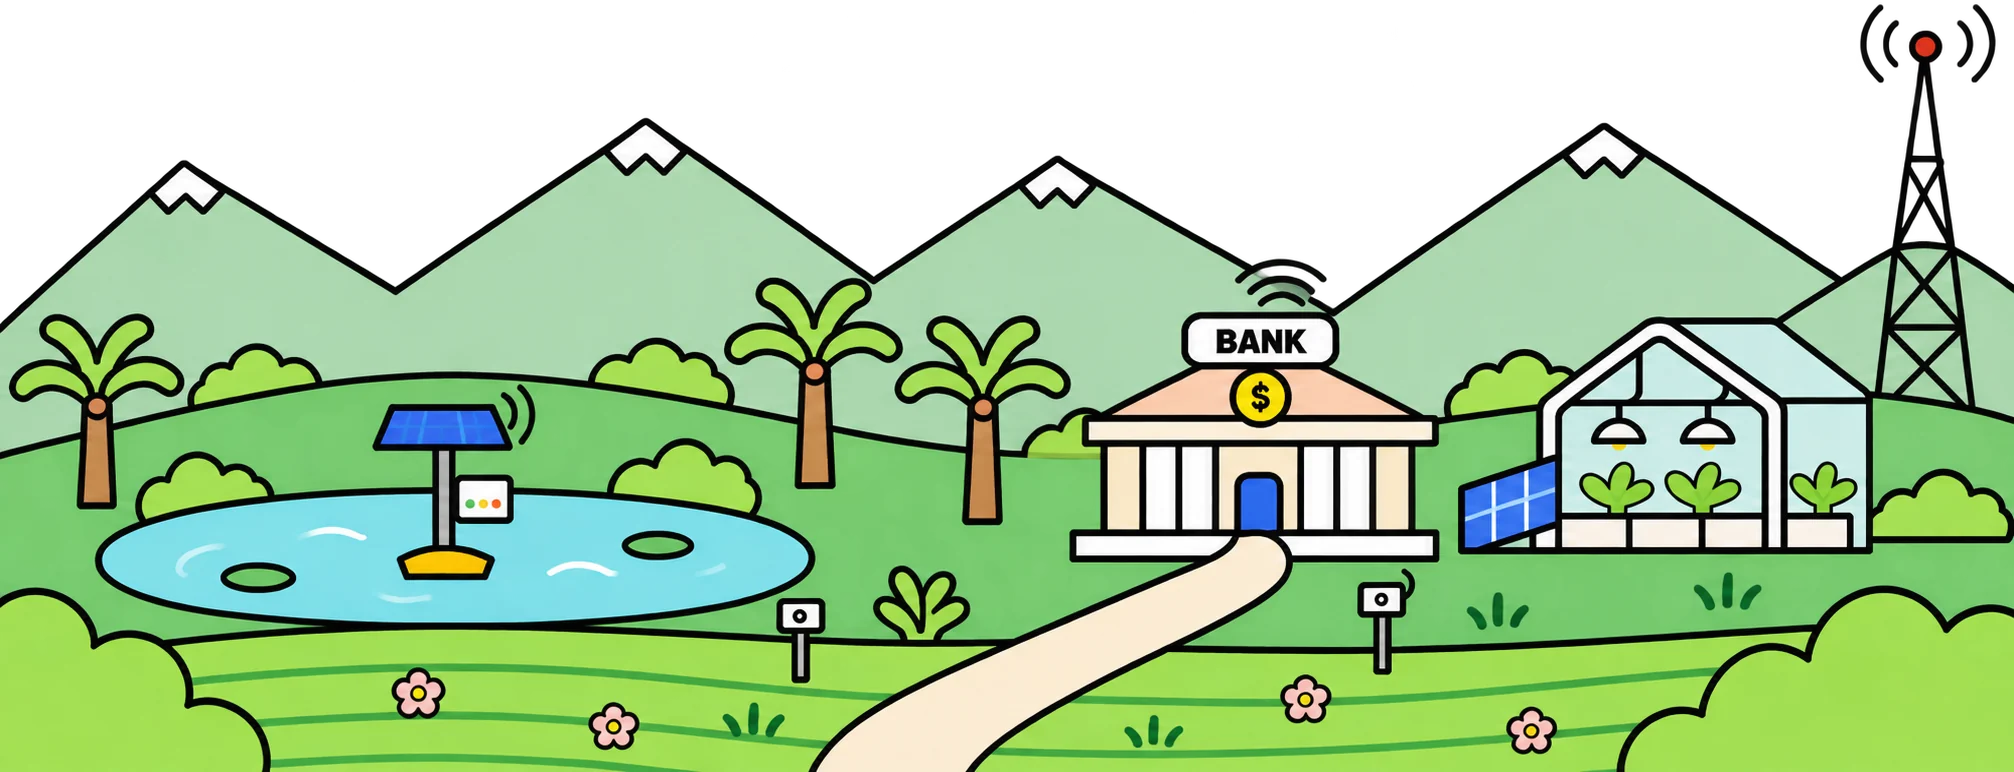
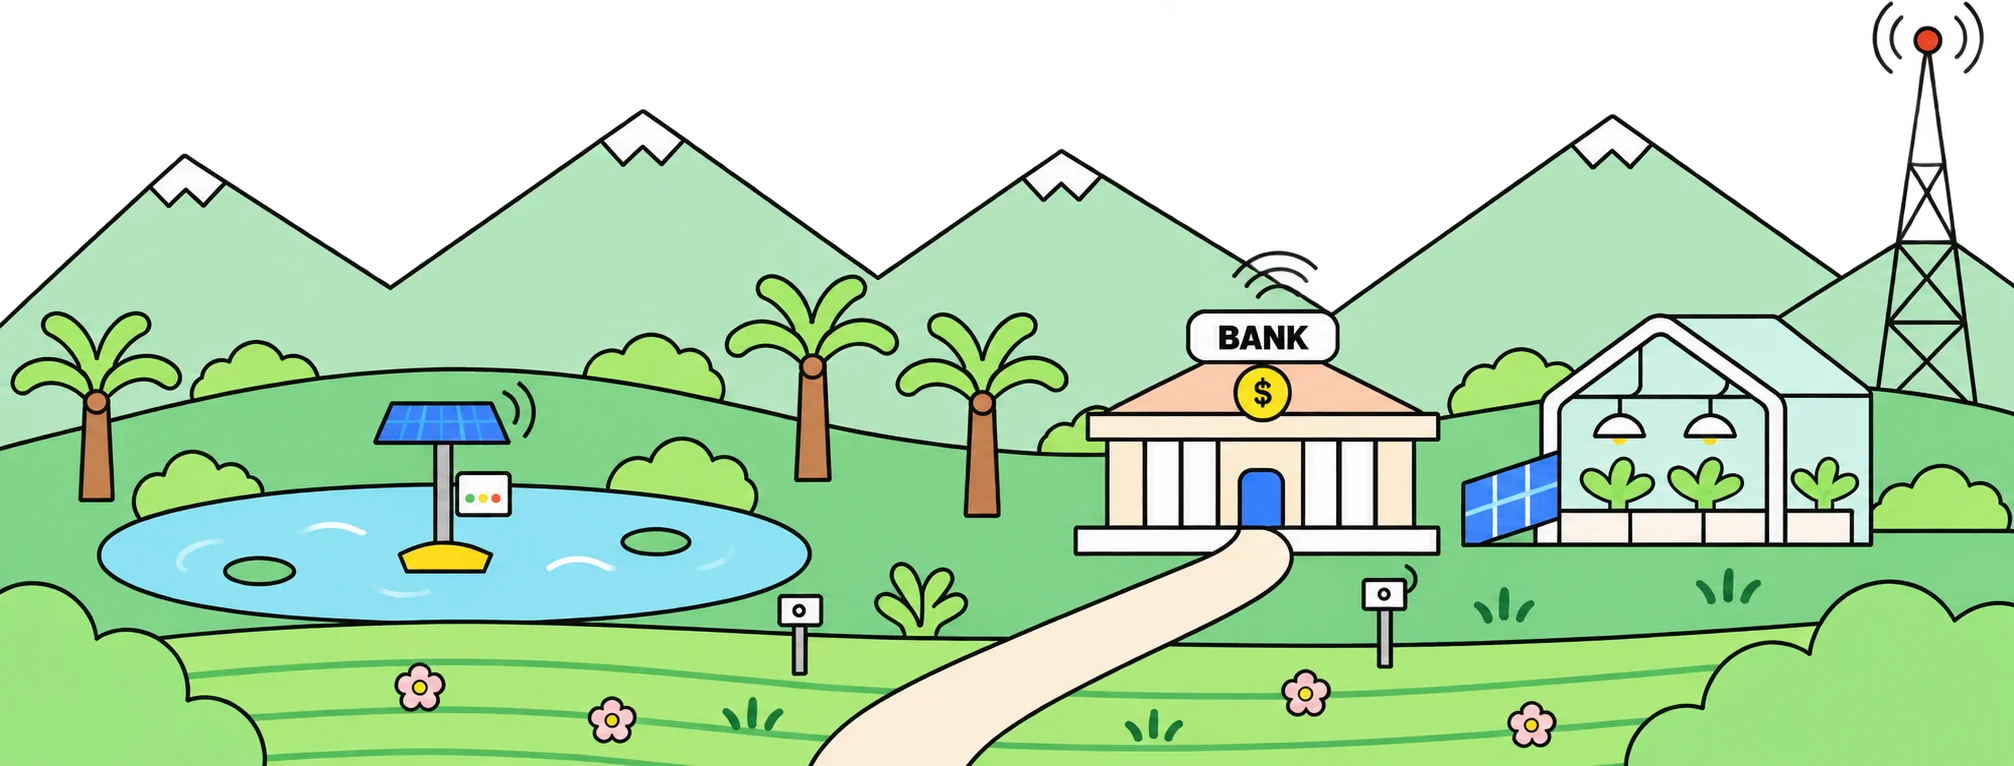
Ganti gambar pemandangan prolog

diff --git a/src/art/chars.ts b/src/art/chars.ts
@@ -23,7 +23,7 @@ import yeayB from '../assets/char/yeay-b.webp';
 import yeay from '../assets/char/yeay.webp';
 
 /** Gambar latar prolog (pegunungan, bank, tambak, greenhouse) beserta ukuran aslinya. */
-export const scene = { src: sceneImg, w: 2014, h: 772 };
+export const scene = { src: sceneImg, w: 2014, h: 766 };
 
 // id simbol -> [url, lebar, tinggi]
 const list: Record<string, [string, number, number]> = {
